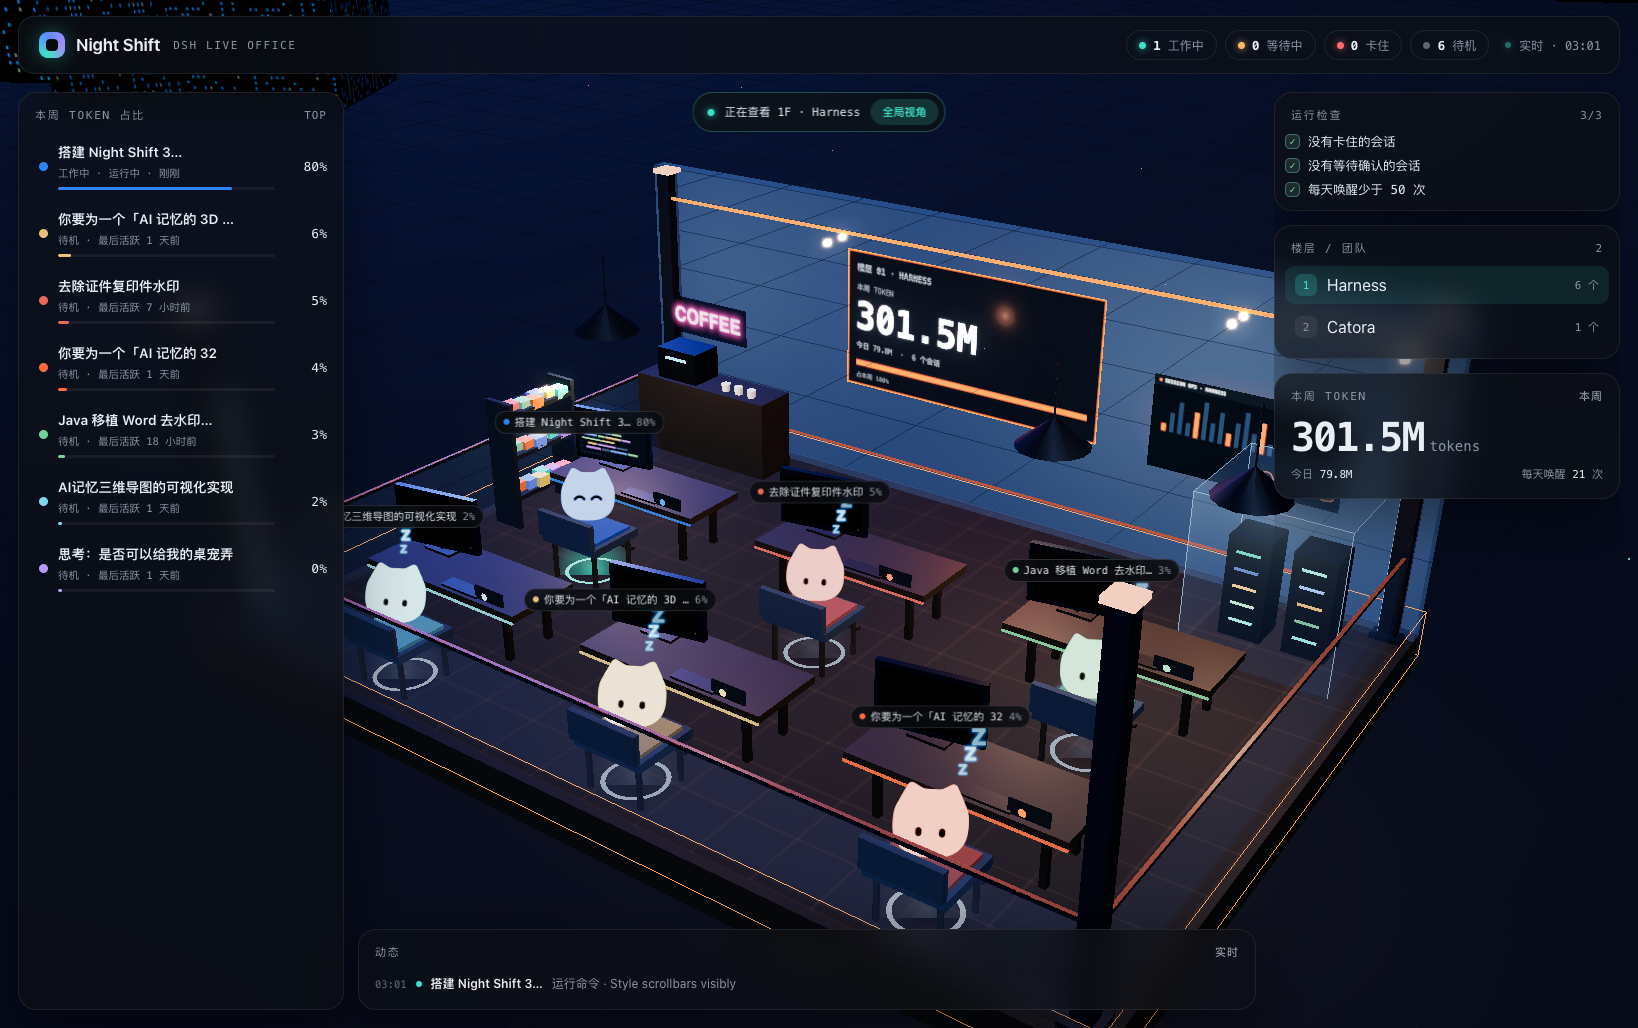
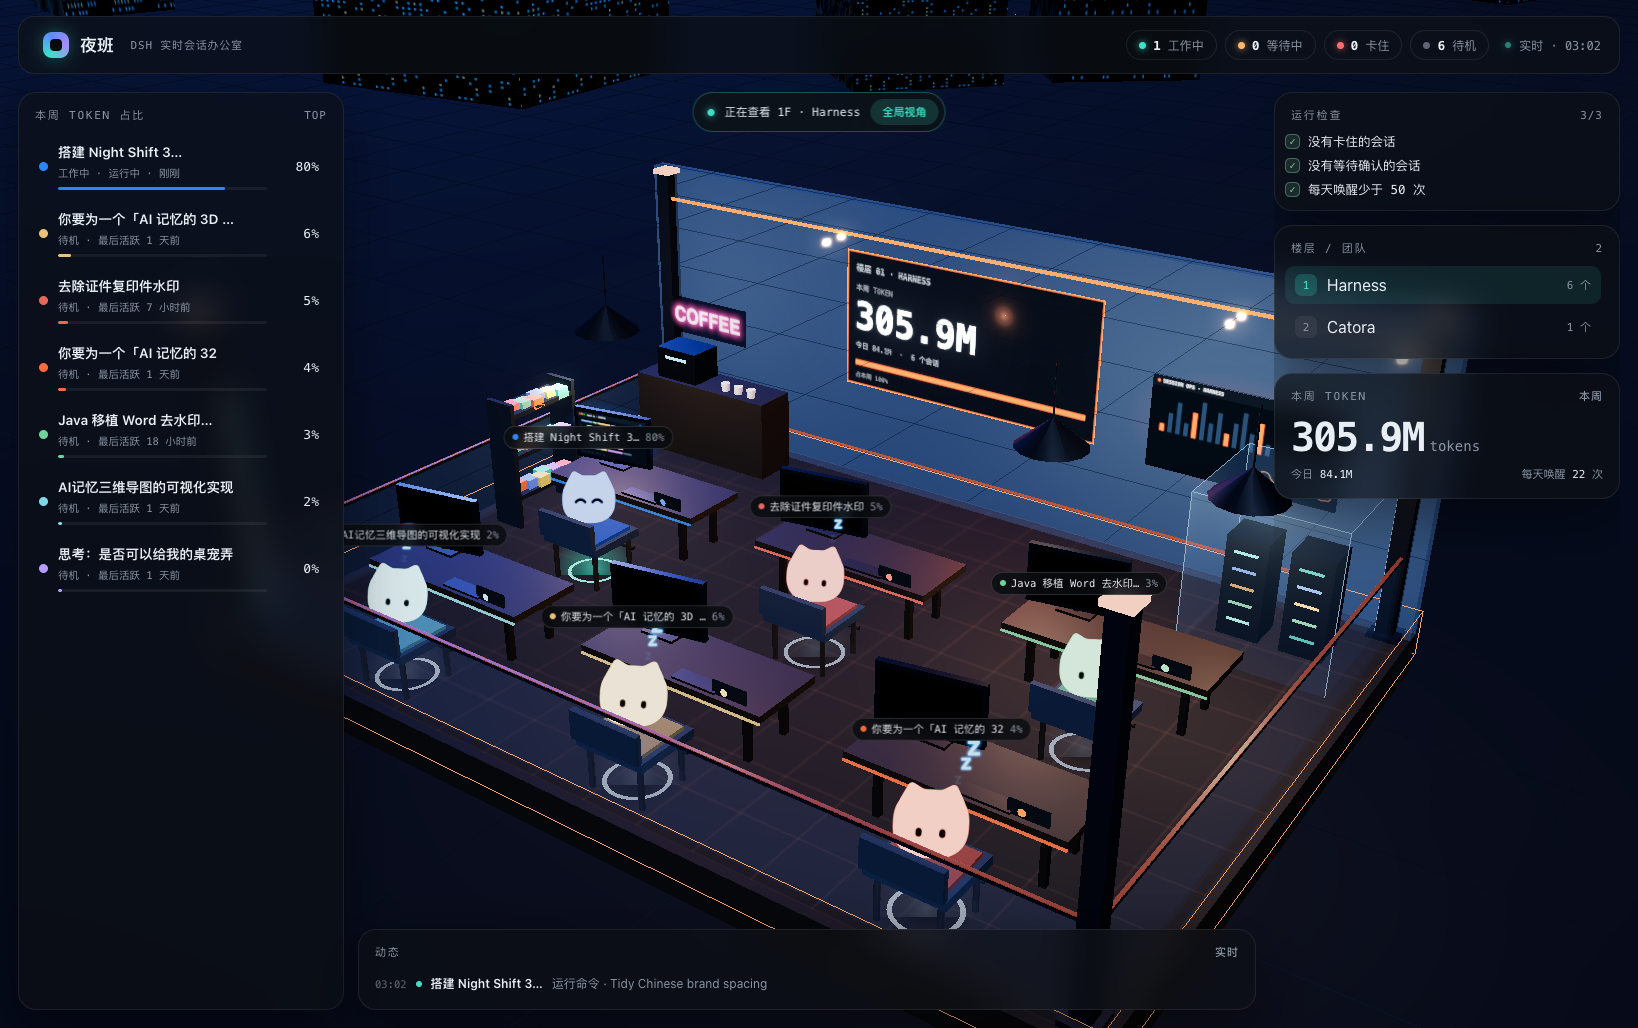
chore(hud): 顶部品牌改为中文「夜班 / DSH 实时会话办公室」

diff --git a/lib/panel.html b/lib/panel.html
@@ -3,7 +3,7 @@
 <head>
 <meta charset="utf-8">
 <meta name="viewport" content="width=device-width,initial-scale=1">
-<title>Night Shift · DSH 会话办公室</title>
+<title>夜班 · DSH 会话办公室</title>
 <style>
   :root{
     --bg:#05070a;
@@ -39,7 +39,7 @@
   .brand .mark{width:26px;height:26px;border-radius:9px;background:conic-gradient(from 210deg,#3de1c6,#5b8cff,#a78bfa,#3de1c6);box-shadow:0 0 18px rgba(61,225,198,.35);position:relative}
   .brand .mark:after{content:"";position:absolute;inset:7px;border-radius:4px;background:#070b0e}
   .brand b{font-size:17px;font-weight:650;letter-spacing:-.2px}
-  .brand span{font-family:var(--mono);font-size:11px;letter-spacing:1.6px;color:var(--dim);margin-left:2px}
+  .brand span{font-family:var(--mono);font-size:11px;letter-spacing:.8px;color:var(--dim);margin-left:6px}
   .pills{display:flex;gap:8px;margin-left:auto}
   .pill{display:flex;align-items:center;gap:7px;height:30px;padding:0 12px;border:1px solid var(--line);border-radius:999px;font-family:var(--mono);font-size:12px;color:var(--dim);white-space:nowrap}
   .pill i{width:7px;height:7px;border-radius:50%;background:var(--dim-2)}
@@ -177,7 +177,7 @@
   <div id="labels"></div>
 
   <header id="top">
-    <div class="brand"><span class="mark"></span><b>Night Shift</b><span>DSH LIVE OFFICE</span></div>
+    <div class="brand"><span class="mark"></span><b>夜班</b><span>DSH 实时会话办公室</span></div>
     <div class="pills" id="pills"></div>
     <div id="clock"><i></i><span>实时</span></div>
   </header>

diff --git a/panel-src/index.html b/panel-src/index.html
@@ -3,7 +3,7 @@
 <head>
 <meta charset="utf-8">
 <meta name="viewport" content="width=device-width,initial-scale=1">
-<title>Night Shift · DSH 会话办公室</title>
+<title>夜班 · DSH 会话办公室</title>
 <style>
   :root{
     --bg:#05070a;
@@ -39,7 +39,7 @@
   .brand .mark{width:26px;height:26px;border-radius:9px;background:conic-gradient(from 210deg,#3de1c6,#5b8cff,#a78bfa,#3de1c6);box-shadow:0 0 18px rgba(61,225,198,.35);position:relative}
   .brand .mark:after{content:"";position:absolute;inset:7px;border-radius:4px;background:#070b0e}
   .brand b{font-size:17px;font-weight:650;letter-spacing:-.2px}
-  .brand span{font-family:var(--mono);font-size:11px;letter-spacing:1.6px;color:var(--dim);margin-left:2px}
+  .brand span{font-family:var(--mono);font-size:11px;letter-spacing:.8px;color:var(--dim);margin-left:6px}
   .pills{display:flex;gap:8px;margin-left:auto}
   .pill{display:flex;align-items:center;gap:7px;height:30px;padding:0 12px;border:1px solid var(--line);border-radius:999px;font-family:var(--mono);font-size:12px;color:var(--dim);white-space:nowrap}
   .pill i{width:7px;height:7px;border-radius:50%;background:var(--dim-2)}
@@ -177,7 +177,7 @@
   <div id="labels"></div>
 
   <header id="top">
-    <div class="brand"><span class="mark"></span><b>Night Shift</b><span>DSH LIVE OFFICE</span></div>
+    <div class="brand"><span class="mark"></span><b>夜班</b><span>DSH 实时会话办公室</span></div>
     <div class="pills" id="pills"></div>
     <div id="clock"><i></i><span>实时</span></div>
   </header>
